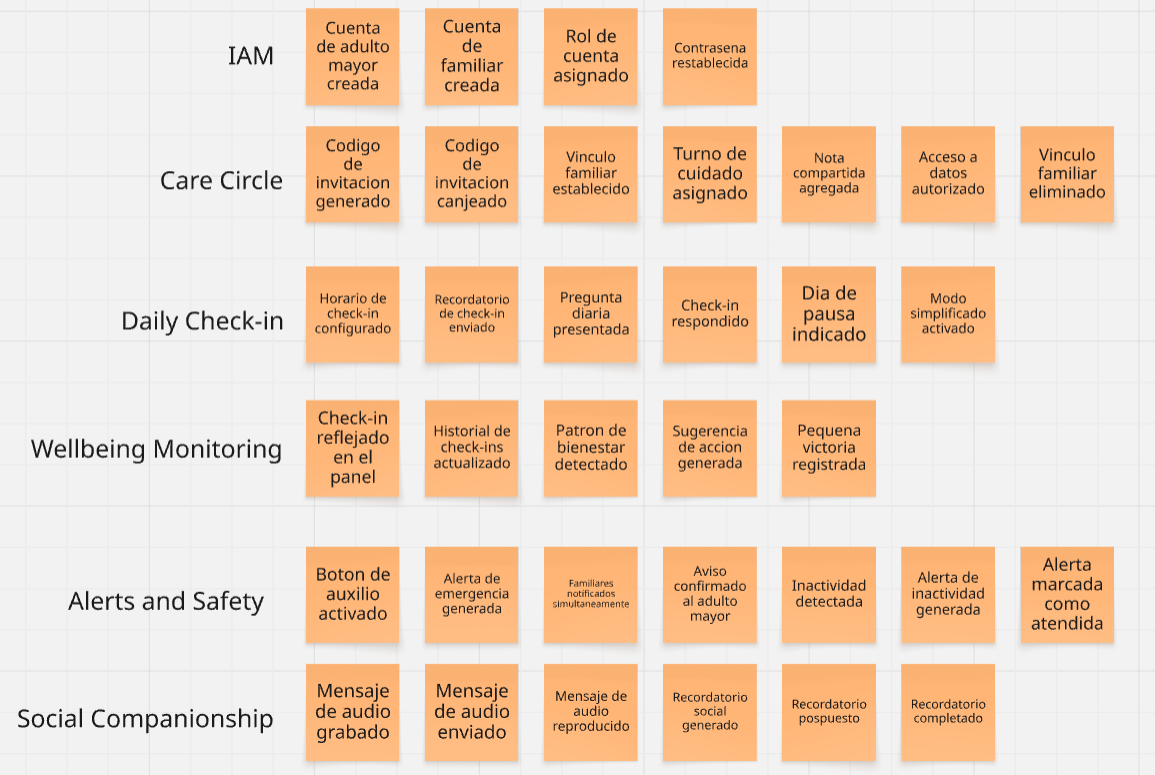
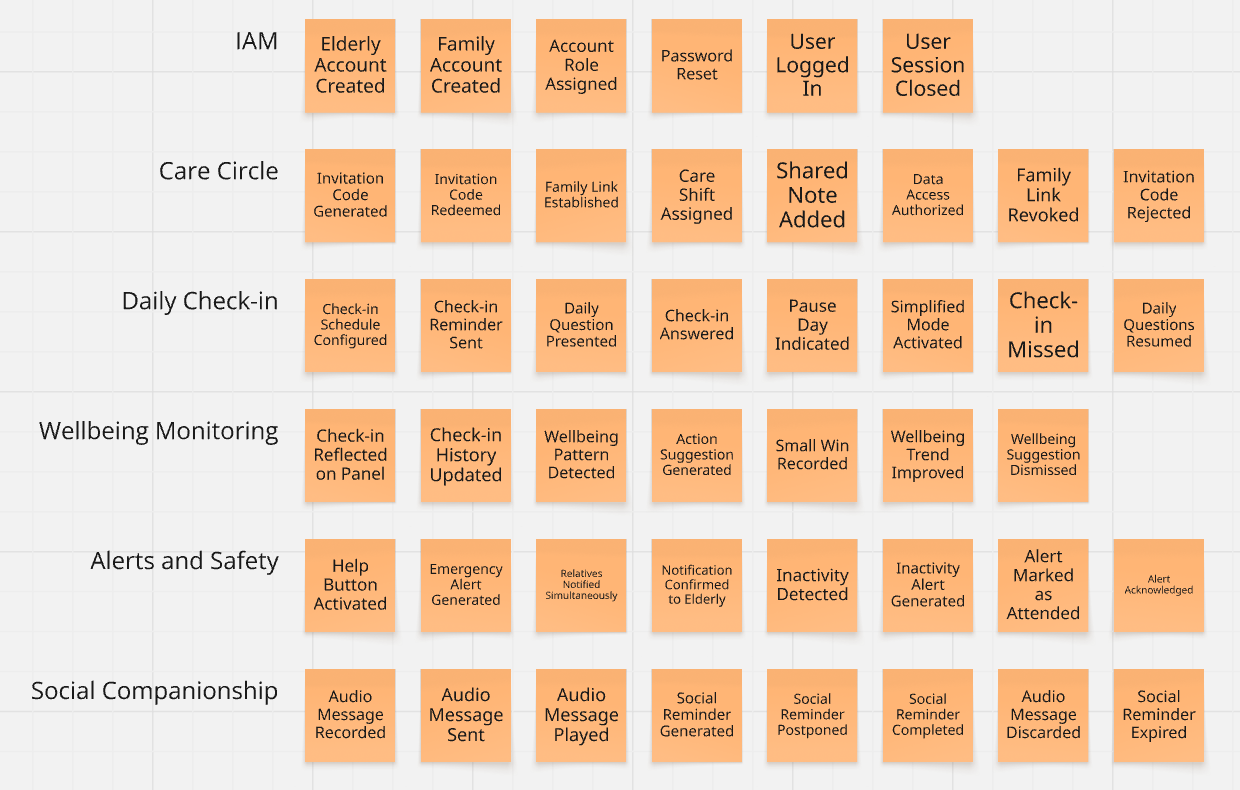
docs(chapter-02): translate Big Picture EventStorming events to English.

diff --git a/README.md b/README.md
@@ -110,12 +110,20 @@ URL del repositorio (report): https://github.com/upc-pre-202620-1acc0238-4945-vi
 - [Capítulo I: Presentación](#capítulo-i-presentación)
   - [1.1. Startup Profile](#11-startup-profile)
     - [1.1.1. Descripción de la Startup](#111-descripción-de-la-startup)
-      - [Misión](#misión)
-      - [Visión](#visión)
-      - [Valores](#valores)
+  - [Misión](#misión)
+  - [Visión](#visión)
+  - [Valores](#valores)
     - [1.1.2. Perfiles de integrantes del equipo](#112-perfiles-de-integrantes-del-equipo)
   - [1.2. Solution Profile](#12-solution-profile)
     - [1.2.1. Antecedentes y problemática](#121-antecedentes-y-problemática)
+  - [The 5W's y 2H's](#the-5ws-y-2hs)
+    - [Who (¿Quién?)](#who-quién)
+    - [What (¿Qué?)](#what-qué)
+    - [Where (¿Dónde?)](#where-dónde)
+    - [When (¿Cuándo?)](#when-cuándo)
+    - [Why (¿Por qué?)](#why-por-qué)
+    - [How (¿Cómo?)](#how-cómo)
+    - [How much (¿Cuánto?)](#how-much-cuánto)
     - [1.2.2. Lean UX Process](#122-lean-ux-process)
       - [1.2.2.1. Lean UX Problem Statements](#1221-lean-ux-problem-statements)
       - [1.2.2.2. Lean UX Assumptions](#1222-lean-ux-assumptions)
@@ -128,22 +136,49 @@ URL del repositorio (report): https://github.com/upc-pre-202620-1acc0238-4945-vi
   - [2.1. Competidores](#21-competidores)
     - [2.1.1. Análisis competitivo](#211-análisis-competitivo)
     - [2.1.2. Estrategias y tácticas frente a competidores](#212-estrategias-y-tácticas-frente-a-competidores)
+  - [Tácticas específicas frente a cada competidor](#tácticas-específicas-frente-a-cada-competidor)
   - [2.2. Entrevistas](#22-entrevistas)
     - [2.2.1. Diseño de entrevistas](#221-diseño-de-entrevistas)
       - [Segmento 1: Adultos mayores que viven solos](#segmento-1-adultos-mayores-que-viven-solos-1)
       - [Segmento 2: Familiares a distancia](#segmento-2-familiares-a-distancia-1)
     - [2.2.2. Registro de entrevistas](#222-registro-de-entrevistas)
+      - [Segmento 1: Adultos mayores que viven solos](#segmento-1-adultos-mayores-que-viven-solos-2)
+        - [Entrevista 1](#entrevista-1)
+        - [Entrevista 2](#entrevista-2)
+        - [Entrevista 3](#entrevista-3)
+      - [Segmento 2: Familiares a distancia](#segmento-2-familiares-a-distancia-2)
+        - [Entrevista 1](#entrevista-1-1)
+        - [Entrevista 2](#entrevista-2-1)
+        - [Entrevista 3](#entrevista-3-1)
+        - [Entrevista 4](#entrevista-4)
     - [2.2.3. Análisis de entrevistas](#223-análisis-de-entrevistas)
+      - [Segmento 1: Adultos mayores que viven solos](#segmento-1-adultos-mayores-que-viven-solos-3)
+      - [Características objetivas](#características-objetivas)
+      - [Características subjetivas](#características-subjetivas)
+      - [Principales patrones identificados](#principales-patrones-identificados)
+      - [Segmento 2: Familiares a distancia](#segmento-2-familiares-a-distancia-3)
+      - [Características objetivas](#características-objetivas-1)
+      - [Características subjetivas](#características-subjetivas-1)
+      - [Principales patrones identificados](#principales-patrones-identificados-1)
   - [2.3. Needfinding](#23-needfinding)
     - [2.3.1. User Personas](#231-user-personas)
+    - [Segmento 1 - Adultos mayores que viven solos](#segmento-1---adultos-mayores-que-viven-solos)
+    - [Segmento 2 - Familiares a distancia](#segmento-2---familiares-a-distancia)
     - [2.3.2. User Task Matrix](#232-user-task-matrix)
+      - [Segmento 1: Adultos mayores que viven solos](#segmento-1-adultos-mayores-que-viven-solos-4)
+      - [Segmento 2: Familiares a distancia](#segmento-2-familiares-a-distancia-4)
     - [2.3.3. User Journey Mapping](#233-user-journey-mapping)
+    - [Segmento 1 - Adultos mayores que viven solos](#segmento-1---adultos-mayores-que-viven-solos-1)
+    - [Segmento 2 - Familiares a distancia](#segmento-2---familiares-a-distancia-1)
     - [2.3.4. Empathy Mapping](#234-empathy-mapping)
+    - [Segmento 1 - Adultos mayores que viven solos](#segmento-1---adultos-mayores-que-viven-solos-2)
+    - [Segmento 2 - Familiares a distancia](#segmento-2---familiares-a-distancia-2)
     - [2.3.5. Big Picture EventStorming](#235-big-picture-eventstorming)
     - [2.3.6. Ubiquitous Language](#236-ubiquitous-language)
   - [2.4. Requirements specification](#24-requirements-specification)
     - [2.4.1. User Stories](#241-user-stories)
     - [2.4.2. Impact Mapping](#242-impact-mapping)
+      - [Desglose del Impact Mapping](#desglose-del-impact-mapping)
     - [2.4.3. Product Backlog](#243-product-backlog)
   - [2.5. Strategic-Level Domain-Driven Design](#25-strategic-level-domain-driven-design)
     - [2.5.1. EventStorming](#251-eventstorming)
@@ -156,7 +191,7 @@ URL del repositorio (report): https://github.com/upc-pre-202620-1acc0238-4945-vi
       - [2.5.3.2. Software Architecture Container Level Diagrams](#2532-software-architecture-container-level-diagrams)
       - [2.5.3.3. Software Architecture Deployment Diagrams](#2533-software-architecture-deployment-diagrams)
   - [2.6. Tactical-Level Domain-Driven Design](#26-tactical-level-domain-driven-design)
-    - [2.6.1. Bounded Context: Identity & Access Context](#261-bounded-context-identity--access-context)
+    - [2.6.1. Bounded Context: Identity \& Access Context](#261-bounded-context-identity--access-context)
       - [2.6.1.1. Domain Layer](#2611-domain-layer)
       - [2.6.1.2. Interface Layer](#2612-interface-layer)
       - [2.6.1.3. Application Layer](#2613-application-layer)
@@ -201,7 +236,7 @@ URL del repositorio (report): https://github.com/upc-pre-202620-1acc0238-4945-vi
       - [2.6.5.6. Bounded Context Software Architecture Code Level Diagrams](#2656-bounded-context-software-architecture-code-level-diagrams)
         - [2.6.5.6.1. Bounded Context Domain Layer Class Diagrams](#26561-bounded-context-domain-layer-class-diagrams)
         - [2.6.5.6.2. Bounded Context Database Design Diagram](#26562-bounded-context-database-design-diagram)
-    - [2.6.6. Bounded Context: Alerts & Safety](#266-bounded-context-alerts--safety)
+    - [2.6.6. Bounded Context: Alerts \& Safety](#266-bounded-context-alerts--safety)
       - [2.6.6.1. Domain Layer](#2661-domain-layer)
       - [2.6.6.2. Interface Layer](#2662-interface-layer)
       - [2.6.6.3. Application Layer](#2663-application-layer)
@@ -252,7 +287,7 @@ URL del repositorio (report): https://github.com/upc-pre-202620-1acc0238-4945-vi
     - [4.3.2. Registro de Entrevistas](#432-registro-de-entrevistas)
     - [4.3.3. Evaluaciones según heurísticas](#433-evaluaciones-según-heurísticas)
 - [Conclusiones](#conclusiones)
-  - [Conclusiones y recomendaciones.](#conclusiones-y-recomendaciones)
+  - [Recomendaciones](#recomendaciones)
   - [Video App Validation](#video-app-validation)
   - [Video About the product](#video-about-the-product)
   - [Video About the team](#video-about-the-team)
@@ -1283,7 +1318,7 @@ A continuación, se presentan las capturas de los mapas resultantes elaborados e
 
 ### 2.3.5. Big Picture EventStorming
 
-El equipo realizó una sesión colaborativa de Big Picture EventStorming en Miro, con el objetivo de explorar de forma visual el dominio completo de Serenia: desde la vinculación entre el adulto mayor y su familiar, pasando por el check-in diario y su interpretación, hasta el manejo de emergencias y la compañía social. Se identificaron 35 eventos de dominio, redactados en pasado, y se ordenaron cronológicamente para cada uno de los procesos identificados.
+El equipo realizó una sesión colaborativa de Big Picture EventStorming en Miro, con el objetivo de explorar de forma visual el dominio completo de Serenia: desde la vinculación entre el adulto mayor y su familiar, pasando por el check-in diario y su interpretación, hasta el manejo de emergencias y la compañía social. Se identificaron 45 eventos de dominio, redactados en pasado y en inglés siguiendo la convención de nomenclatura adoptada por el equipo, y se ordenaron cronológicamente para cada uno de los procesos identificados.
 
 <div align="center">
 
@@ -1295,13 +1330,13 @@ URL del tablero en Miro: https://miro.com/app/board/uXjVHmgj4G8=/
 
 **Procesos clave identificados:**
 - **Alta y vínculo**: la creación de cuentas y el establecimiento del vínculo familiar son el punto de partida obligatorio antes de que cualquier otro proceso pueda ocurrir.
-- **Check-in diario**: el ritual central del lado del adulto mayor, con eventos que reflejan tanto su ejecución habitual como sus excepciones (pausa del día, modo simplificado).
+- **Check-in diario**: el ritual central del lado del adulto mayor, con eventos que reflejan tanto su ejecución habitual como sus excepciones (pausa del día, modo simplificado, check-in no respondido).
 - **Interpretación de bienestar**: un conjunto de eventos de lectura que traducen los check-ins en información útil para el familiar, sin decidir por sí solos si algo es urgente.
 - **Alertas y seguridad**: los eventos más críticos del dominio, tanto por activación directa (botón de auxilio) como por detección pasiva (inactividad).
 - **Compañía social**: eventos desligados de cualquier fin de monitoreo, centrados en el vínculo emocional (audios, recordatorios sociales).
 
 **Oportunidades y problemas expuestos durante la sesión:**
-- Se evidenció que "Familiares notificados simultáneamente" y "Alerta de inactividad generada" comparten el mismo mecanismo de notificación aunque se disparan por causas distintas (activación directa vs. detección pasiva), lo que se debe resolver con cuidado en el diseño técnico para no duplicar lógica.
+- Se evidenció que "Relatives Notified Simultaneously" y "Inactivity Alert Generated" comparten el mismo mecanismo de notificación aunque se disparan por causas distintas (activación directa vs. detección pasiva), lo que se debe resolver con cuidado en el diseño técnico para no duplicar lógica.
 - Se identificó que la autorización de acceso a los datos de un adulto mayor específico depende del vínculo familiar vigente, por lo que cualquier eliminación de vínculo debe revocar ese acceso de forma inmediata.
 - Los eventos se organizaron visualmente en las agrupaciones que el equipo identificó durante la sesión, las cuales se retoman y detallan formalmente como bounded contexts en la sección 2.5.1.1 Candidate Context Discovery.
 
